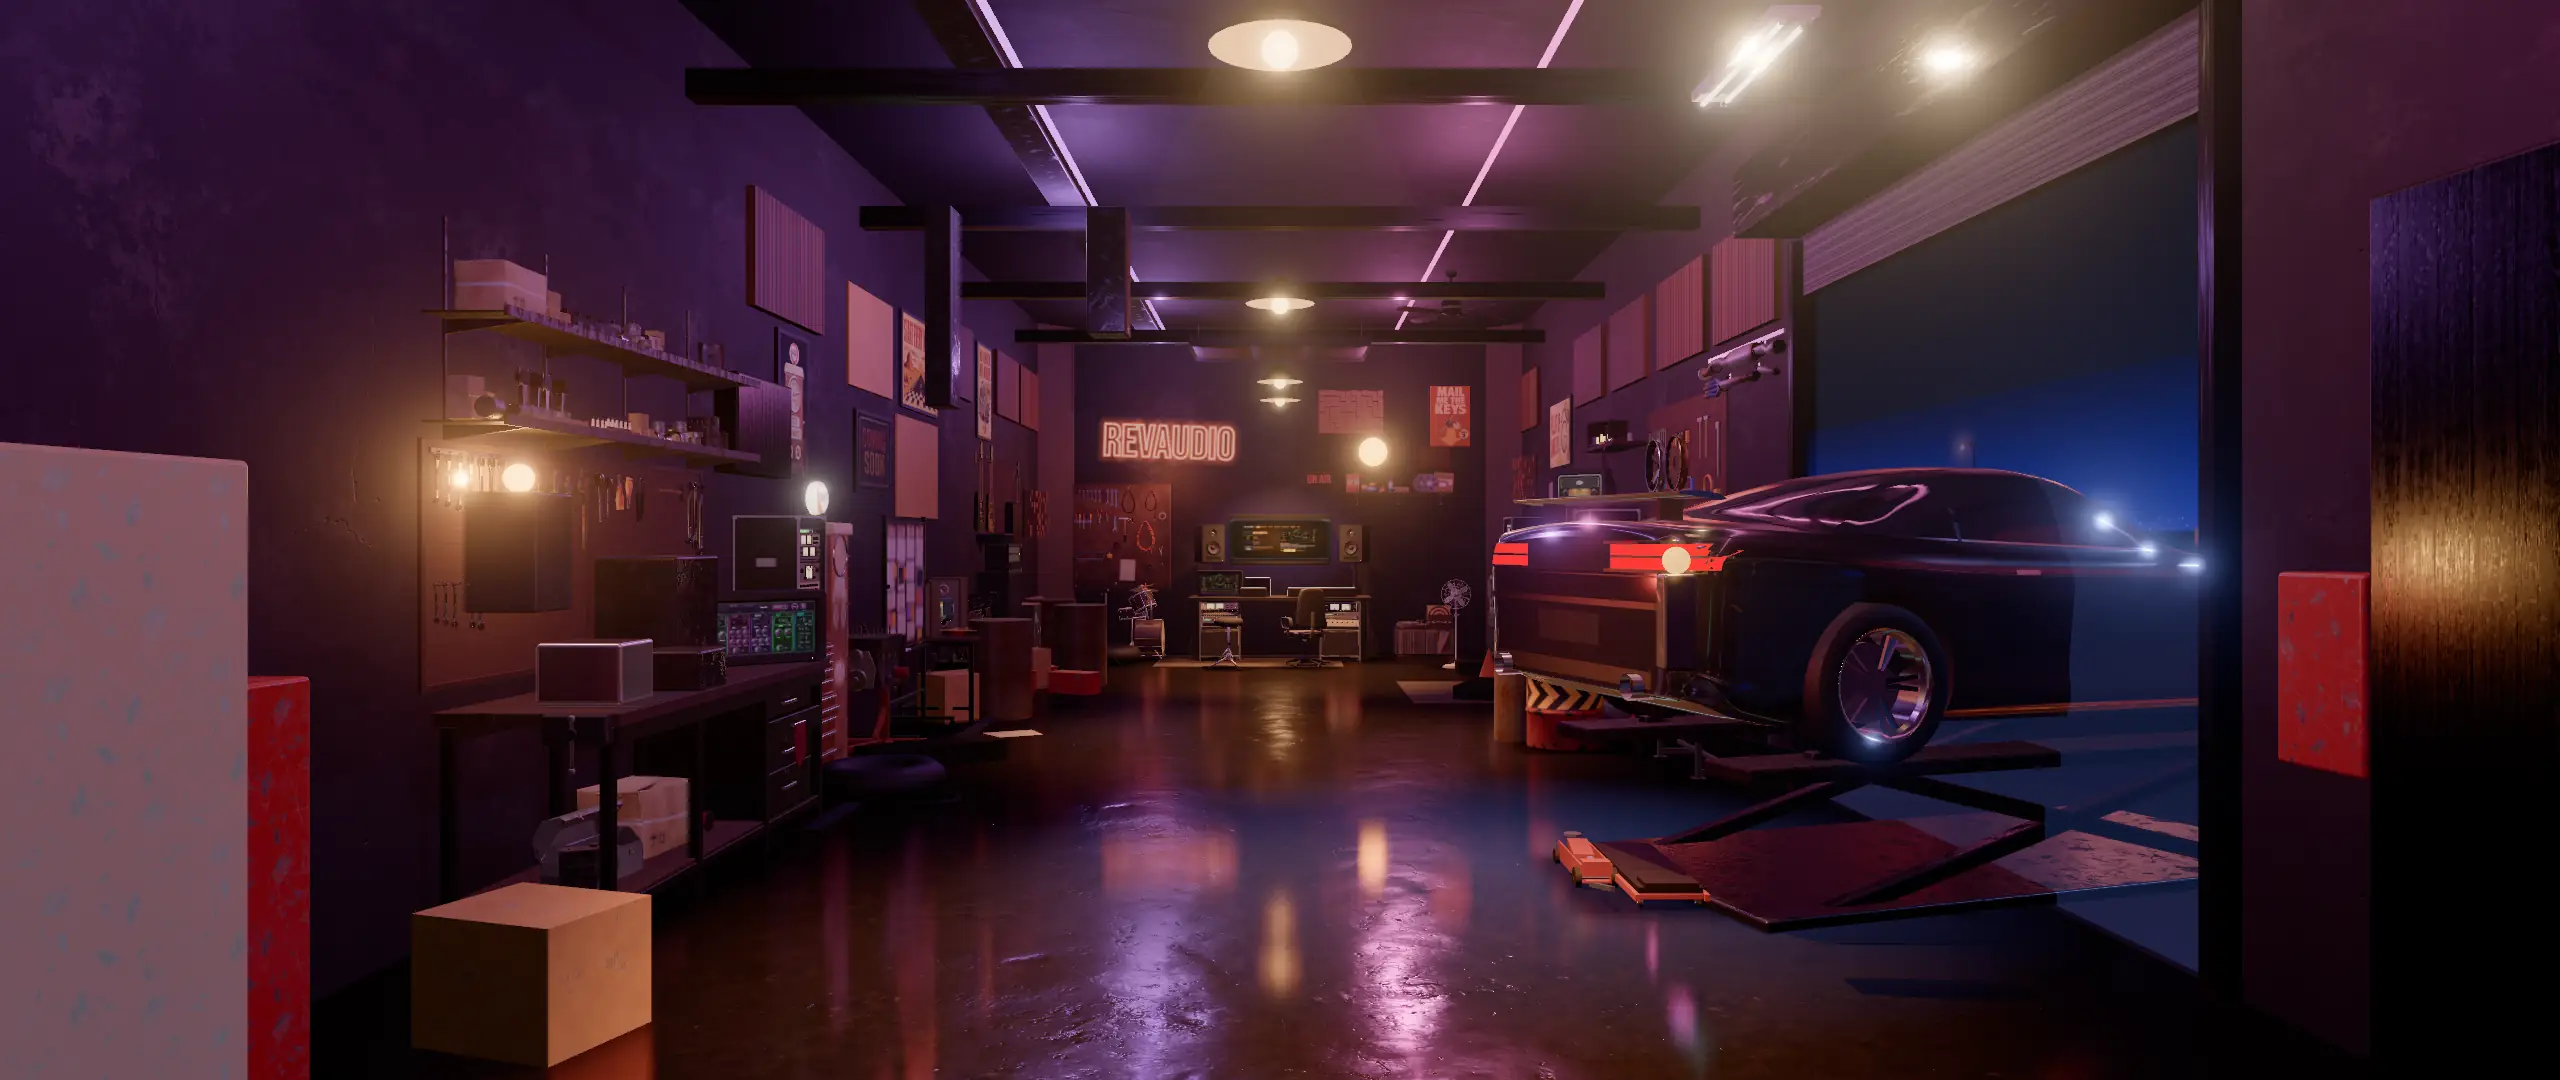
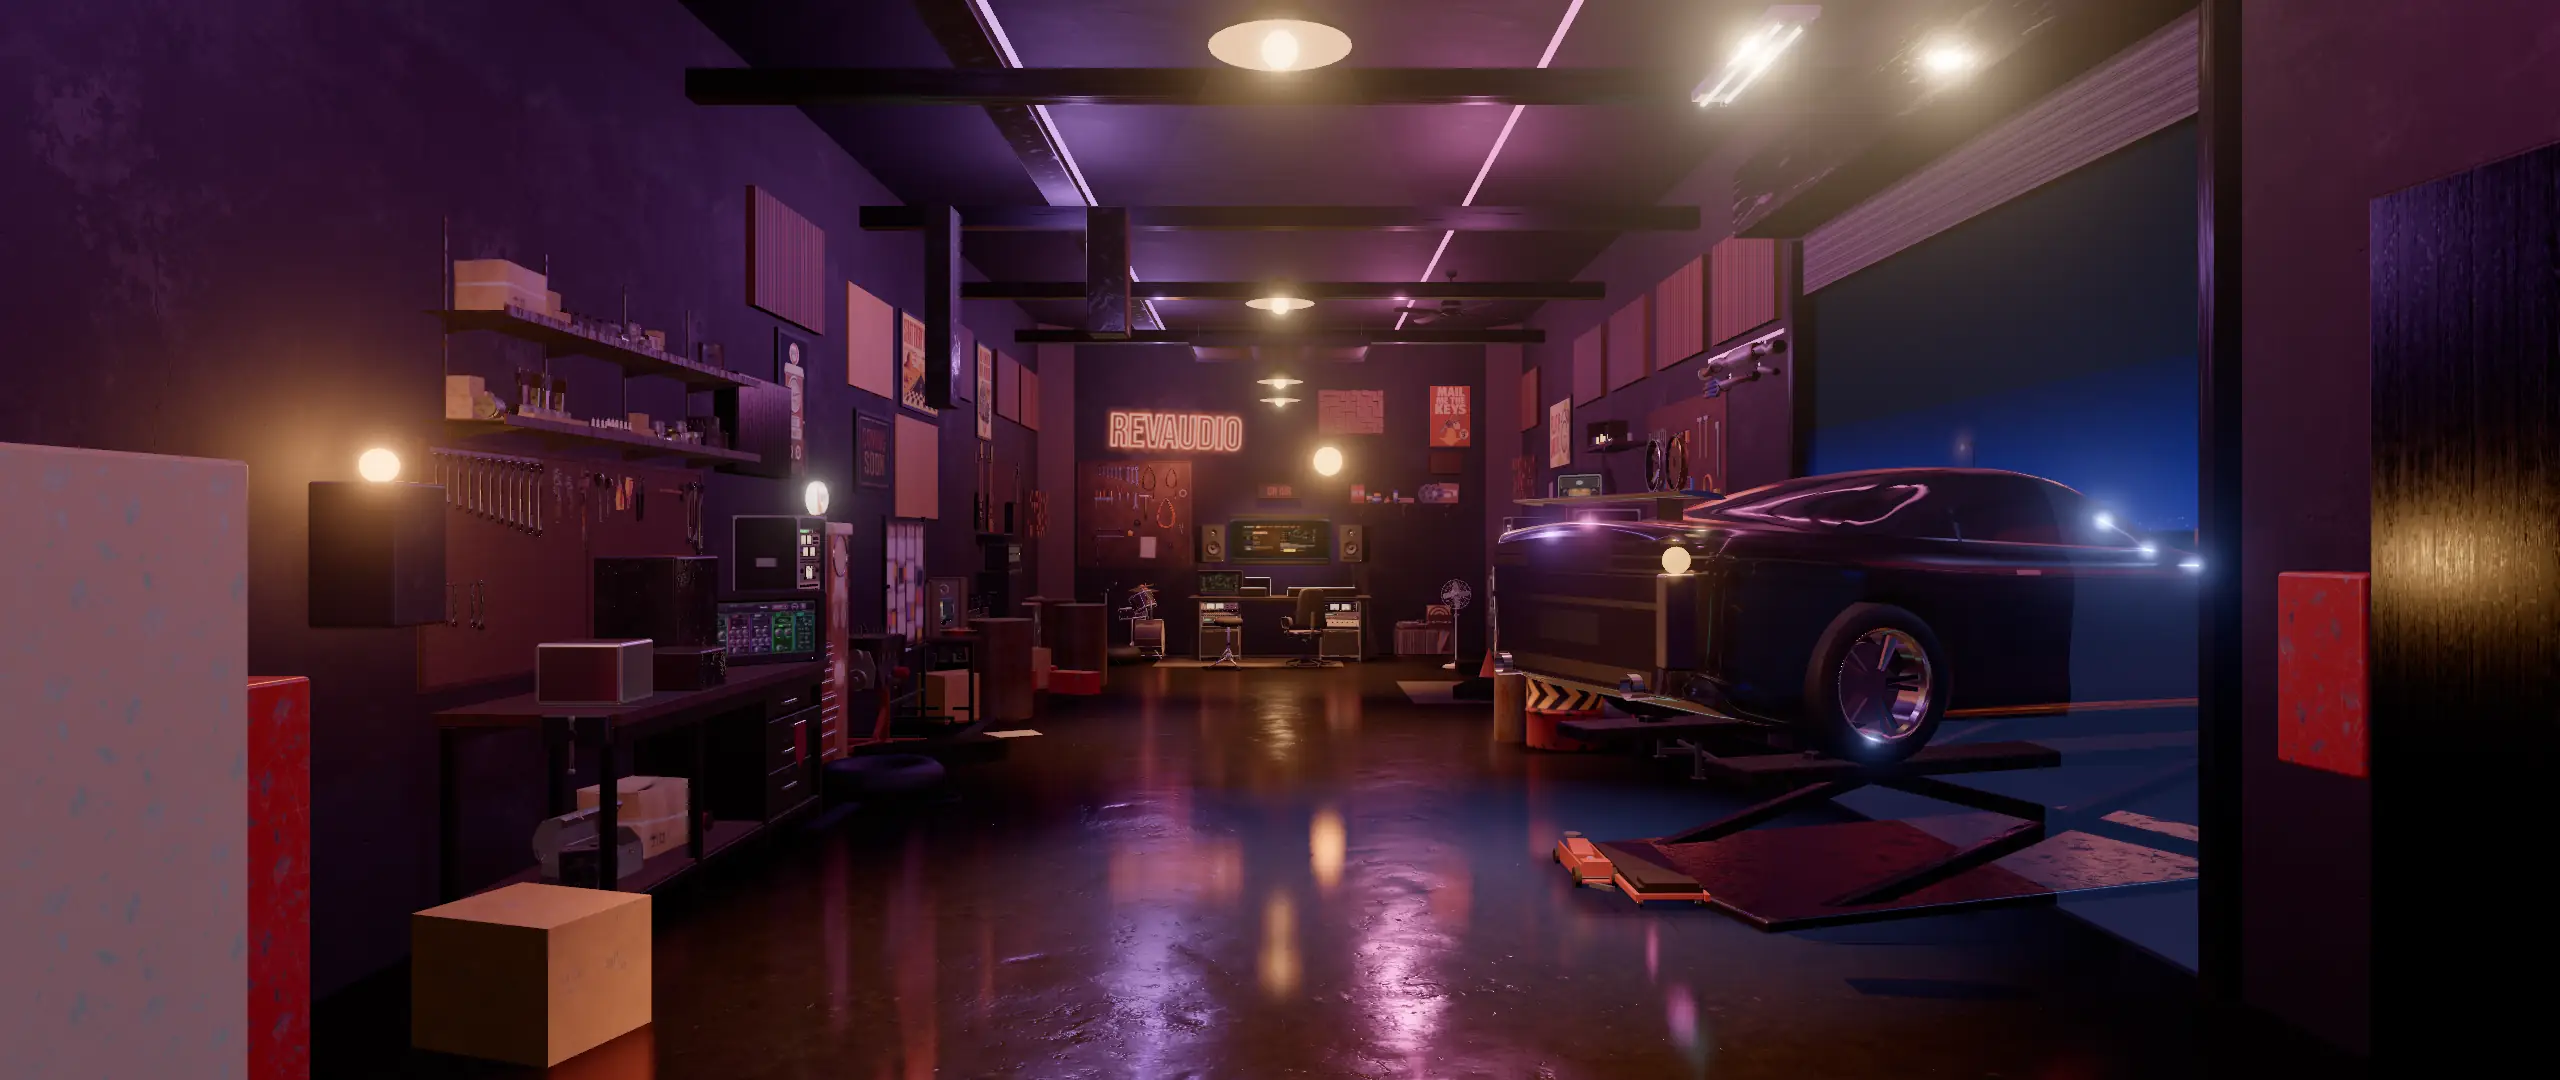
Long garage: Dan's room bench of 11-09 baked as the defaults (settings ver 16)
His pasted "Copy settings": the end wall rearranged (E05 pegboard, E06 shelf, N20 globe lamp, N32 radio, N36 ON AIR
centred over the TV), the L19 guitar rack and the N12 clamp lamp moved, the REVAUDIO neon nudged; the big line
("Built like cars.") and the engine (tail-lights) off, as on his bench. A bench saved before takes them once (ver 16).
Checks: a fresh visit equals his bench key for key (within 6 mm rounding), 0 overlaps, hand-off 1.05 / 0.68 / 0.45 /
2.57 % (= baseline), 0 page errors; the slow-connection still re-rendered. Builders' lists: N12's new spot; N20 + N32
now hang on the wall, so they get a hanger when built.

diff --git a/tools/_home-opening/room.html b/tools/_home-opening/room.html
@@ -211,24 +211,25 @@ const DEF = {
   sway: 0.4, neon: 0.38, lamps: 1.4, tvGlow: 1.25, bloom: 1.1, fog: 0.036, dust: 0.15, // neon one step up from 0.26 (Dan's pick, 11-08); dust 0.5 -> 0.15 (Dan 11-09: "less dust in the air, much less": 30 % of the specks)
   ledStrip: 0, rackLeds: 1, screens: 1.8,  // the room alive: aisle LED strips (off: they read as a road), the racks' LEDs + VU, the CRT monitors
   // the car side-on, nose out through the open roll-up door in the right wall, engine off, on a low lift (Dan 2026-11-02)
-  carZ: 0.82, carOut: 0.5, carYaw: 18, liftType: 'scissor', liftH: 0.68, engine: 1,
+  carZ: 0.82, carOut: 0.5, carYaw: 18, liftType: 'scissor', liftH: 0.68, engine: 0, // engine off again on his room bench of 11-09: dark tail-lights
   doorW: 4, doorH: 3.5, doorOpen: 0.9, outside: 3,
   // the REVAUDIO neon: off the aisle (Dan 2026-11-02: "not in your face"), then on the end wall, right of the TV (11-03)
-  signWall: 'endLeft', signF: 0.52, signX: -1.62, signY: 2.95,  // the wall in front of you, top right (Dan 11-03, placed 11-04)
+  signWall: 'endLeft', signF: 0.52, signX: -1.47, signY: 3.09,  // the wall in front of you, top right (Dan 11-03, placed 11-04, nudged on his room bench of 11-09)
   signScale: 1.15, signTilt: -2,        // hung a little crooked on two wires (Dan 11-03; sized 11-04)
-  ver: 15,                               // settings version (15 = much less dust, Dan 11-09; 14 = the drum N06 moved, Dan's build bench of 11-09; 5 = Dan's bench of 11-03 baked, 6 = his third, with the pegboard move, 7 = back to the bare set; his bench of 11-04 needed no bump; 8 = the snap off; 9 = B + A's moves as the room; 10 = the look pass, 11 = its first fix round, 12 = his bench of 11-08 + two nudges, 13 = his neon pick): 2 moved the sign to the end wall, 3 made it bigger + crooked, 4 took the road off the floor
+  ver: 16,                               // settings version (16 = his room bench of 11-09: the end wall rearranged, the big line + the engine off; 15 = much less dust, Dan 11-09; 14 = the drum N06 moved, Dan's build bench of 11-09; 5 = Dan's bench of 11-03 baked, 6 = his third, with the pegboard move, 7 = back to the bare set; his bench of 11-04 needed no bump; 8 = the snap off; 9 = B + A's moves as the room; 10 = the look pass, 11 = its first fix round, 12 = his bench of 11-08 + two nudges, 13 = his neon pick): 2 moved the sign to the end wall, 3 made it bigger + crooked, 4 took the road off the floor
   // the look pass (2026-11-08, todo 1b): real materials and night light on the same set (Skeleton = the grey labelled
   // blocks); tone = the tone mapping (AgX), exposure its exposure; probe = how much the room shows in its own shiny
   // things (chrome, paint, the floor); shafts = the haze under the lamps
   look: 1, tone: 'agx', exposure: 1, shadows: 1, probe: 1, shafts: 0.9,
-  labels: 0, wire: 0, readB: 1, snap: 0, paint: 0, film: 0, bench: 0, edit: 0,  // paint: the painted room over the bare set; film: the walk film over both; snap: free scrolling by default, the snap stays a bench option (Dan 2026-11-04)
+  labels: 0, wire: 0, readB: 0, snap: 0, paint: 0, film: 0, bench: 0, edit: 0,  // readB: the big line under the TV ("Built like cars."), off on Dan's room bench of 11-09; paint: the painted room over the bare set; film: the walk film over both; snap: free scrolling by default, the snap stays a bench option (Dan 2026-11-04)
   // (both off, Dan 2026-11-03 after the one-shot film: "lets go back to the skelton this is not what i want")
   // per-object moves from the move tool: { id: { f, x, y, side, s, r } }; Dan's pick of 2026-11-05 (layouts/b-plus-a.json)
   moves: {
     "M03": {"f": 0.0771, "x": -0.8, "s": 1.15},  // f kept its spot on the desk when the room grew to 20.9 m (11-08)
     "N26B": {"x": -2.2, "s": 0.8},
     "N30": {"x": 2.2, "s": 0.85},
-    "N36": {"x": 0.55, "y": 2.45},
+    "N36": {"x": -0.01, "y": 2.28},  // ON AIR centred over the TV (Dan's room bench, 11-09)
+    "E05": {"x": -2.05, "y": 1.97}, "E06": {"x": 1.75, "y": 2.2}, "N20": {"x": 0.67, "y": 2.7}, "N32": {"x": 2.32, "y": 2.67}, // the end wall as he set it (11-09)
     "P04": {"x": 2.4, "y": 3.35},
     "A04": {"x": 1.0, "y": 3.4},
     "N23": {"f": 0.1181, "x": -2.95, "side": -1},
@@ -242,7 +243,7 @@ const DEF = {
     "L02": {"f": 0.2465, "y": 2.2},
     "L03": {"f": 0.2812, "y": 2.2},
     "P01": {"f": 0.2639, "y": 3.25},
-    "L19": {"f": 0.3438},
+    "L19": {"f": 0.3353, "x": -3.15},  // Dan 11-09
     "W07": {"f": 0.441},
     "W03": {"f": 0.441, "y": 2.25},
     "L13": {"f": 0.4062, "y": 1.03, "s": 0.8},
@@ -266,7 +267,7 @@ const DEF = {
     "W01": {"f": 0.816},
     "W05": {"f": 0.8507},
     "W02": {"f": 0.8854},
-    "N12": {"f": 0.8854, "x": -3.2, "y": 1.55},
+    "N12": {"f": 0.9484, "x": -3.15, "y": 1.55},  // Dan 11-09
     "L16": {"f": 0.0764, "side": 1},
     "A06": {"y": 2.4},
     "L05": {"f": 0.1354, "side": 1},
@@ -353,6 +354,10 @@ if (sv < 12) for (const id of ['M03', 'N16']) S.moves[id] = { ...DEF.moves[id] }
 if (sv < 13) S.neon = DEF.neon; // his picks of 11-08: the ceiling neon one step up (the door, chests and walls stay)
 if (sv < 14) S.moves.N06 = { ...DEF.moves.N06 }; // his build bench of 11-09: the GAS 2 drum to his pin
 if (sv < 15) S.dust = DEF.dust; // his note of 11-09: "less dust in the air, much less"
+if (sv < 16) { // his room bench of 11-09: the end wall rearranged, the guitar rack + clamp lamp, the sign; the big line + the engine off
+  for (const id of ['E05', 'E06', 'N20', 'N32', 'N36', 'L19', 'N12']) S.moves[id] = { ...DEF.moves[id] };
+  Object.assign(S, { signX: DEF.signX, signY: DEF.signY, engine: DEF.engine, readB: DEF.readB });
+}
 S.ver = DEF.ver;
 // ?layout=<name>: a proposed layout (layouts/<name>.json, the bench's Copy-settings format) over the defaults, to walk
 // and compare; this browser's saved bench is left alone and nothing is saved

diff --git a/tasks/handoff.md b/tasks/handoff.md
@@ -267,6 +267,21 @@ NEXT (tomorrow):
      context for the orchestrator, not a change to YOUR task."
 4. Then: into the homepage on laptops (Dan's "go"), CSP + R2 (Dan's OK), the critics' round on the finished room.
 
+UPDATE 2 2026-11-09 (later): landed since, all pushed on `feat/home-opening`:
+- `3020b60` the car: Dan's pick A, our coupe in gloss black clearcoat ("reflective and shiny"). `c33bbb6` the
+  builders' batch 2: 27 more slots real, 55 models load; draw calls at walk 0 / 0.3 / 0.6 / 0.9 = 817 / 744 / 213 / 87.
+  `e6325db` much less dust (0.15, settings ver 15).
+- The commit with this note: Dan's room bench of 11-09 baked as the defaults (ver 16). The end wall is rearranged
+  (E05 pegboard, E06 shelf, N20 globe lamp, N32 radio, N36 ON AIR over the TV), plus the L19 guitar rack, the N12 clamp
+  lamp and the neon sign. The big line ("Built like cars.") and the engine (tail-lights) are off, as on his bench.
+  ⏸ His word on whether the line stays off: it is the first screen's headline.
+  Checks: 0 overlaps, hand-off = baseline, 0 errors.
+- Running: the garage-speed workflow. Dan: "make the page faster without hurting the quality", with options for him to
+  pick. Outputs are in this session's scratchpad `look/step5/perf/` (`synth/report.md` when done). Next: a page that
+  shows him the options.
+- The 3 builders are idle after batch 2, held for quiet perf measurements; the next batches are in
+  `team/builders/*-LIST.md`.
+
 Open: the monitors bench had B (vintage) ticked but Dan's chat said "black + wood"; black went in. Confirm if asked.
 Owed by Dan: tell Gil (the room on laptops from Nov 19, next to his Black Friday countdown); the R2 / CSP OK.
 Run the room: from this worktree's root `python3 -m http.server 4490 --bind 127.0.0.1` (this session left one running,

diff --git a/tasks/todo.md b/tasks/todo.md
@@ -287,6 +287,10 @@ Steps:
               R09 N03). Bench https://claude.ai/artifact/WbhosKXawqVMvT3xpKo53p (db `notes`): ⏸ Dan picks the CAR
               (A our coupe / B CC0 covered hatchback / C our coupe covered; candidates in the car builder's folder
               `candidates/CAR/`), ✓ or notes on the 12 objects. The car needs `R.tailMat` on its `tail_light` mesh.
+            - Round 2 (2026-11-09): the car = A, glossy (`3020b60`); batch 2 = 27 more slots (`c33bbb6`); much less
+              dust (`e6325db`); Dan's room bench baked (ver 16: the end wall rearranged, L19, N12, the sign; the big
+              line + the engine off as on his bench, ⏸ is the line off on purpose?). Next: the garage-speed options
+              page; the builders' batch 3.
 - [ ] 5. Into the page, with the checks.
 - [ ] 6. A test skin: swap one object and remove one (RevFX or a poster), end to end.
 

diff --git a/tools/_home-opening/team/builders/left-LIST.md b/tools/_home-opening/team/builders/left-LIST.md
@@ -16,7 +16,7 @@
 11. W03 · Sketch + signal-flow wall (our UIs) · 0.03 x 0.9 x 1.4 · (-3.3, 2.2, 6.8)  [pinned]
 12. W01 · Test-gear tower: scope, generator, meter · 0.4 x 0.6 x 0.5 · (-3.1, 1.2, 12.6)  [pinned]
 13. N13 · Corkboard: gig flyers, photos, a calendar · 0.03 x 0.8 x 1.2 · (-3.3, 3.2, 8.2)  [pinned]; made-up bands only
-14. N12 · Clamp-on task lamp over the bench · 0.3 x 0.62 x 0.3 · (-3.2, 1.6, 13.6)  [pinned]; it is lit
+14. N12 · Clamp-on task lamp over the bench · 0.3 x 0.62 x 0.3 · (-3.15, 1.55, 14.61)  [pinned; Dan moved it 11-09]; it is lit
 15. W02 · The plugin's real object, mid-build (RPM gauge) · 0.35 x 0.25 x 0.3 · (-2.9, 1.1, 13.6)  [pinned]
 16. W05 · Solder station + fume extractor (smoke wisp) · 0.3 x 0.18 x 0.3 · (-2.8, 1.0, 13.1)  [pinned]
 17. N28 · Mini fridge covered in stickers · 0.5 x 0.85 x 0.5 · (-3.1, 0.4, 3.3)

diff --git a/tools/_home-opening/team/builders/far-LIST.md b/tools/_home-opening/team/builders/far-LIST.md
@@ -18,5 +18,8 @@
 14. E04 synth on the desk · N33 oscilloscope (live green trace: casing only) · N35 headphones + a mug · N36 ON AIR sign
     (lit) · N20 GAS 2 pump-globe lamp (lit) · N32 tube radio (dial glowing) · R08 modular synth · R19 framed print of
     our first faceplate · N29 moving blankets on a rail
+    Dan rearranged the end wall on 11-09 (keep his spots): N36 ON AIR over the TV (-0.01, 2.28, 0.06); N20 the globe
+    lamp (0.67, 2.70, 0.25) and N32 the radio (2.32, 2.67, 0.21) hang on the wall with nothing under them, so give
+    each a wall hanger or bracket; E05 the pegboard (-2.05, 1.97) and E06 the shelf (1.75, 2.20) moved too.
 15. A01 / A02 · Bass traps, the far corners · 0.88 x 4.6 x 0.88 · (∓3.4, 2.3, 0)
 Not yours (reused from the room's models): L13 / L14 studio monitors, R16 the right wall's drum kit.
